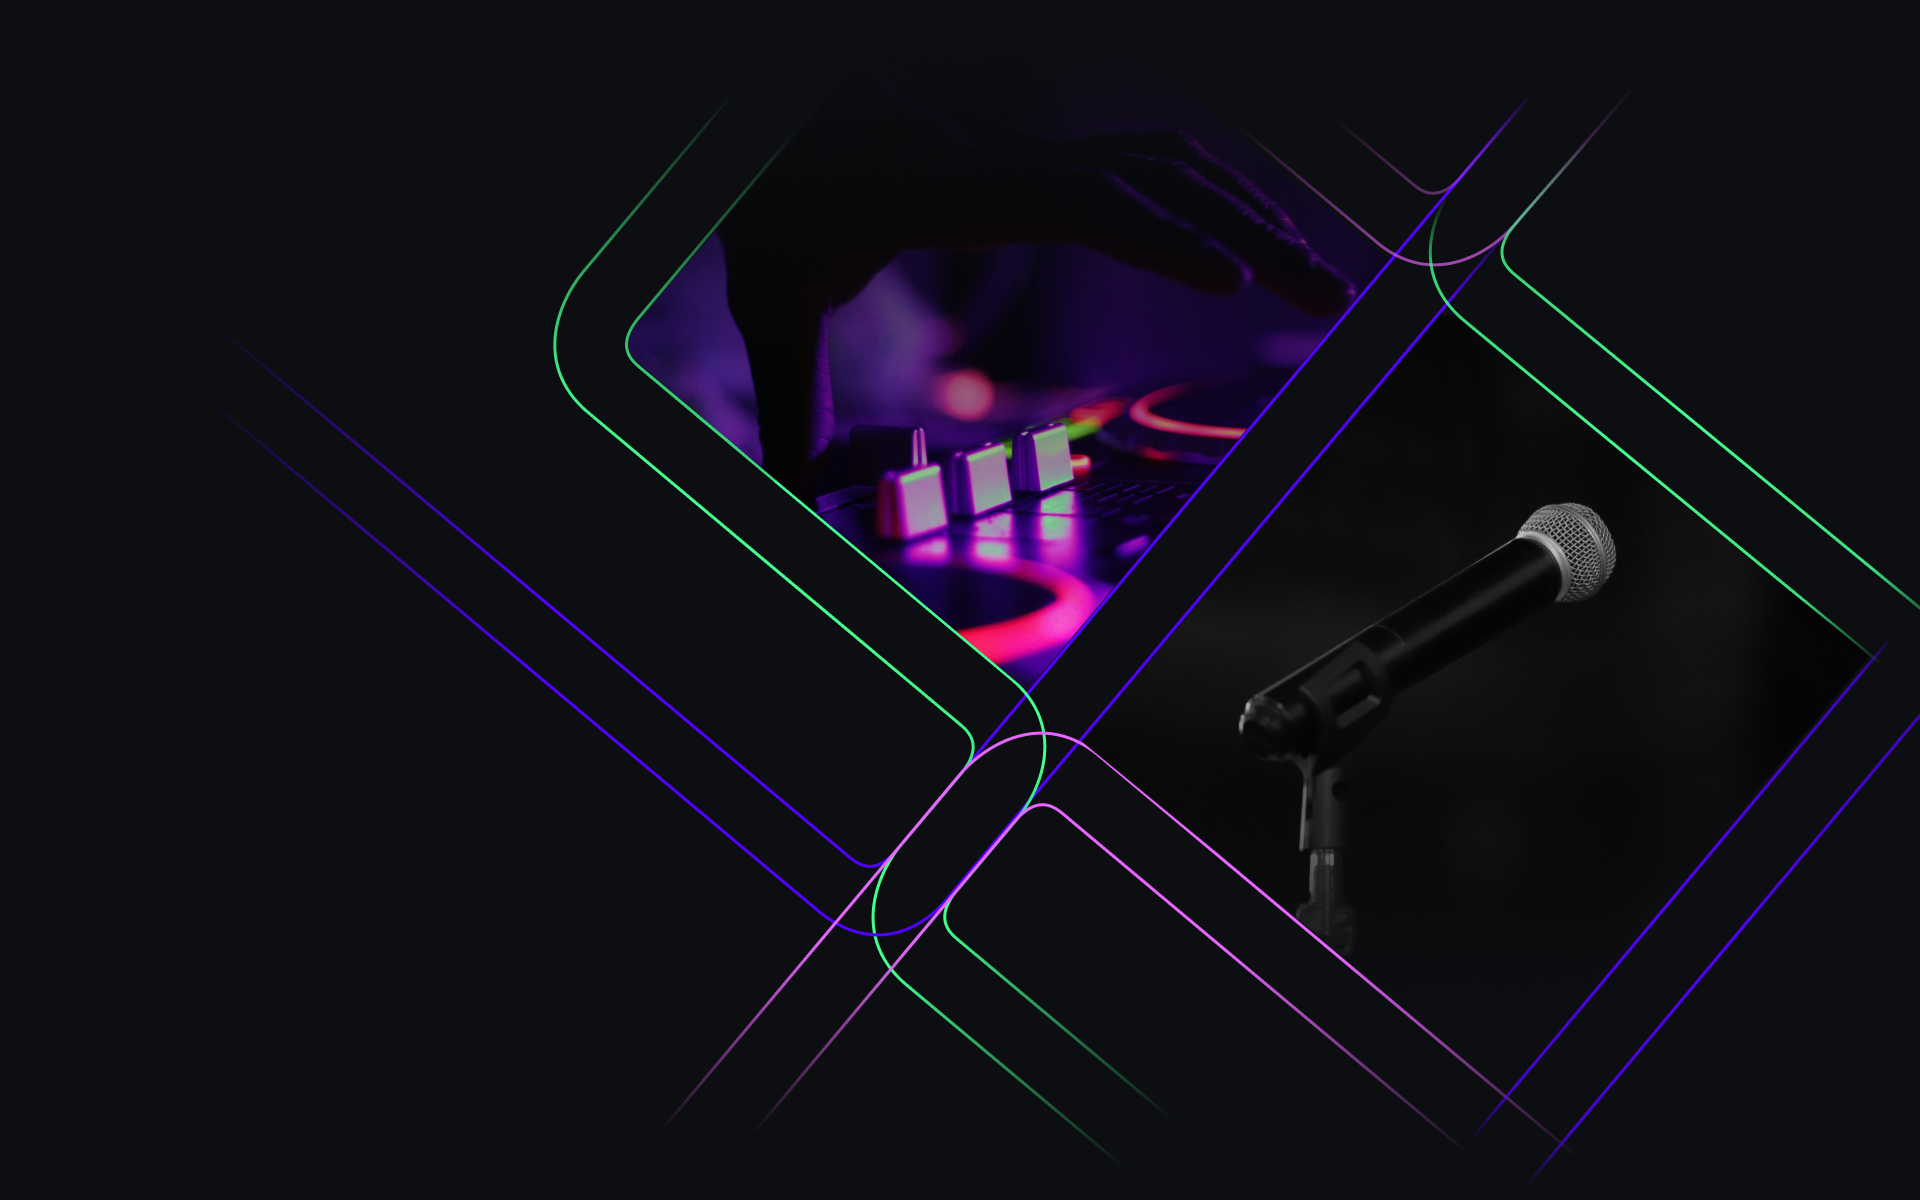
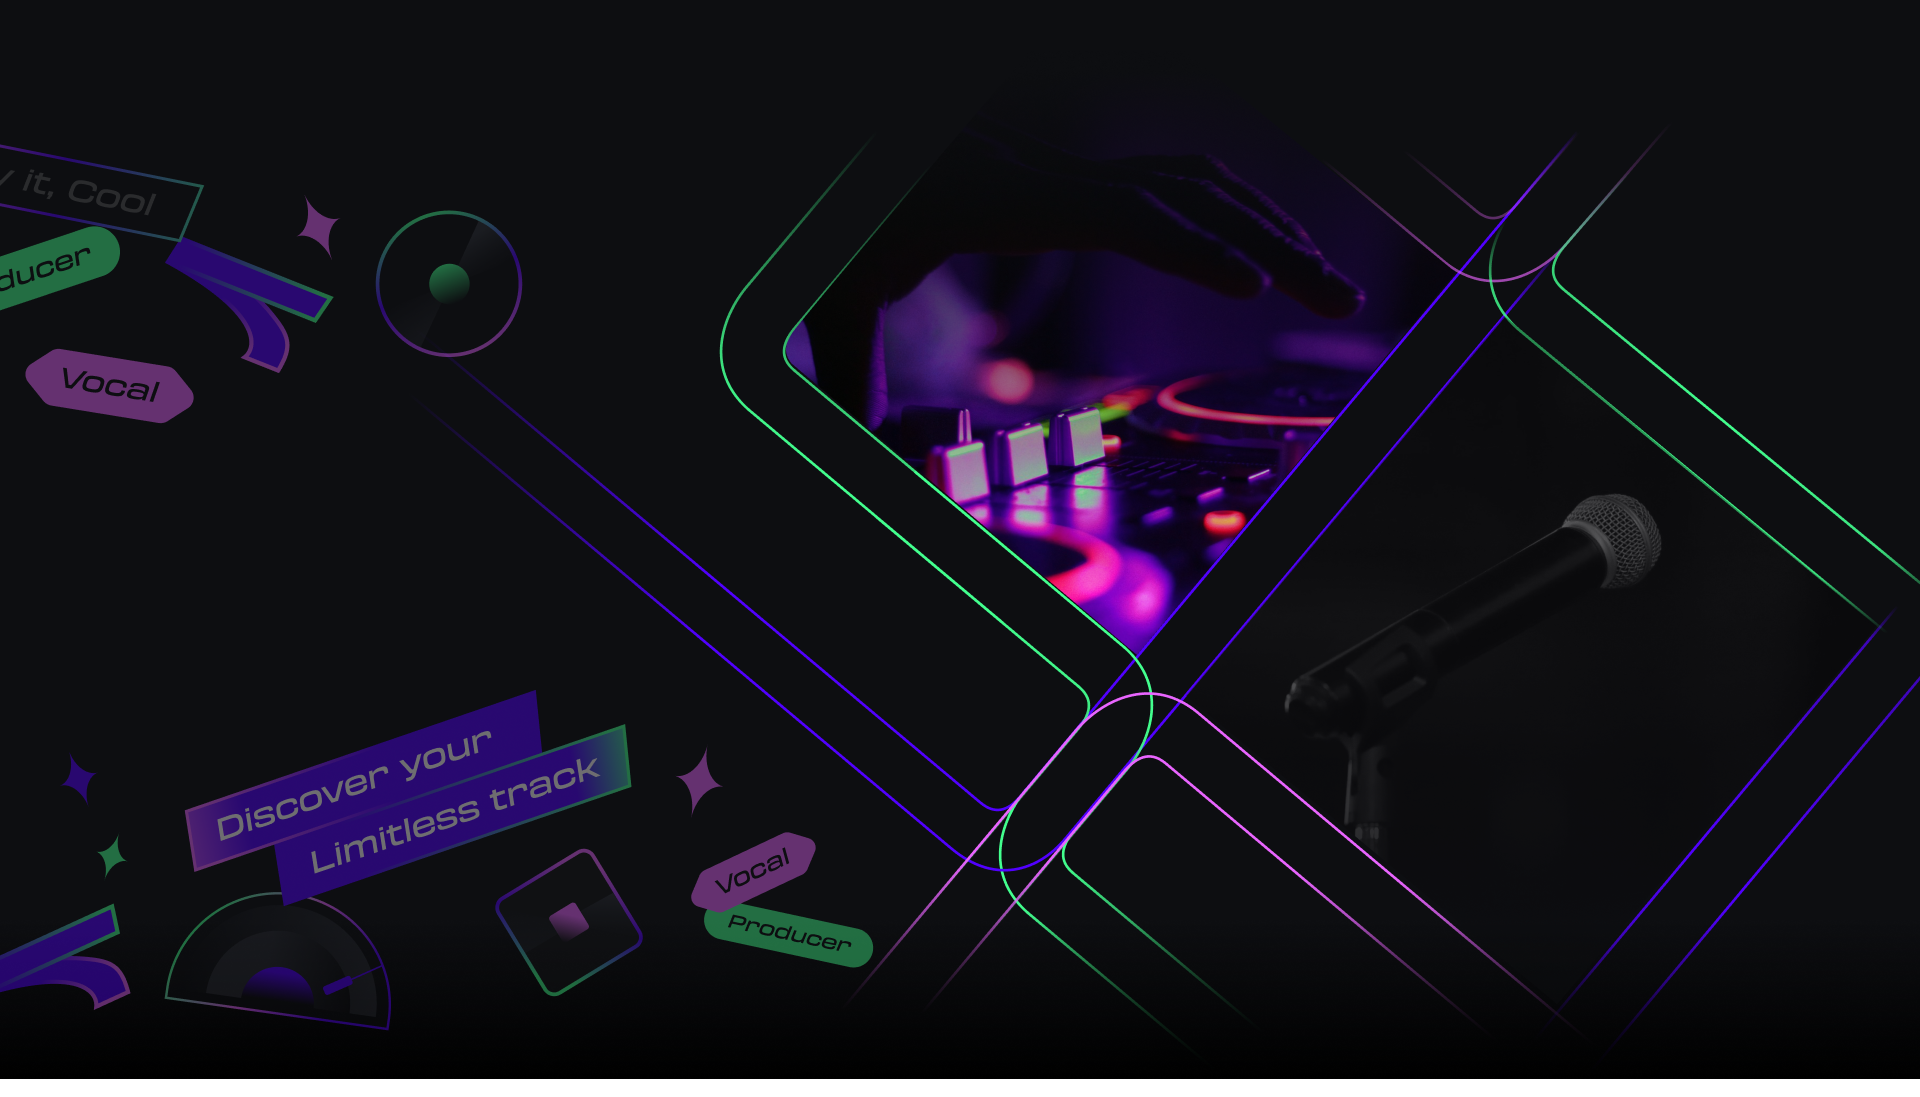
[ etc ] 메인 배경 이미지 변경

diff --git a/src/@pages/mainPage.tsx b/src/@pages/mainPage.tsx
@@ -59,13 +59,13 @@ const Main = styled.main`
 `;
 
 const VocalsArea = styled.div`
-  width: 54.8rem;
-  height: 57.2rem;
+  width: 48rem;
+  height: 50rem;
 
   position: absolute;
   z-index: 99;
-  top: 41.2rem;
-  left: 120.4rem;
+  top: 41rem;
+  left: 129rem;
   transform: rotate(40deg);
   cursor: pointer;
 `;
@@ -91,13 +91,15 @@ const VocalsTextIcon = styled(MainVocalsTextIc)<{ isVocalsHover: boolean }>`
 `;
 
 const TracksArea = styled.div`
-  width: 56.4rem;
-  height: 53.8rem;
+  width: 50rem;
+  height: 47rem;
 
   position: absolute;
   z-index: 99;
-  top: 3.2rem;
-  left: 72rem;
+  top: 8rem;
+  left: 86.5rem;
+  //top: 3.2rem;
+  //left: 72rem;
   transform: rotate(-50deg);
   border-radius: 2.8rem 0 0;
   cursor: pointer;
@@ -110,6 +112,8 @@ const MainTracksTextIcon = styled(MainTracksTextIc)<{ isTracksHover: boolean }>`
   position: absolute;
   top: 42.4rem;
   left: 99.5rem;
+  //top: 36rem;
+  //left: 108.5rem;
   background-repeat: no-repeat;
 
   ${(props) =>
@@ -125,6 +129,6 @@ const MainTracksTextIcon = styled(MainTracksTextIc)<{ isTracksHover: boolean }>`
 
 const MainSlogan = styled.img`
   position: absolute;
-  top: 82.5rem;
-  left: 8.3rem;
+  top: 50.6rem;
+  left: 8.7rem;
 `;

diff --git a/src/mocks/handlers/vocalSearch.ts b/src/mocks/handlers/vocalSearch.ts
@@ -20,7 +20,7 @@ export const vocalSearchHandler = [
           vocalId: 2,
           vocalProfileImage: "albumCoverImg",
           vocalTitleFile: "AWS S3 bucket 보컬 타이틀 wav 파일 URL",
-          vocalName: "보컬8",
+          vocalName: "보컬8", 
           category: ["Jazz", "EDM"],
           keyword: ["클럽 분위기의", "신비로운", "졸린"],
           totalCategNum: 5,
